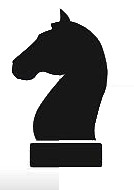
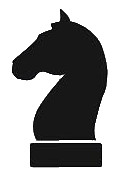
things

Changed region(s): [[0.0, 0.9737, 0.4478, 1.0], [0.209, 0.8421, 0.2388, 0.8684]]

diff --git a/src/profile/components/RecentGames/RecentGames.js b/src/profile/components/RecentGames/RecentGames.js
@@ -19,54 +19,54 @@ class RecentGames extends Component {
   }
 
   render () {
-  console.log('myGames', this.state.myGames)
-  const games = 0;
-  if (this.state.myGames[0]){
-      games = this.state.myGames.map((element, index) => {
-      let white = element.user_light
-      let black = element.user_dark
-      let winner = element.winner
-      let loser = element.loser
-      let timeCtrl = element.time_ctrl
-      let numberOfMoves = element.moves
-      let date = element.game_date
-      return(
-        <div key={index} className="gameRowInfo">
-        <div className="col 1">
-        <p>Date: {date}</p>
-        <p>Moves: {numberOfMoves}</p>
-        <p>Time Control: {timeCtrl}</p>
-        <p>White: {white}</p>
-        <p>Black: {black}</p>
-        </div>
+  // console.log('myGames', this.state.myGames)
+  // let games = 0;
+  // if (this.state.myGames[0]){
+  //     games = this.state.myGames.map((element, index) => {
+  //     // let white = element.user_light
+  //     // let black = element.user_dark
+  //     // let winner = element.winner
+  //     // let loser = element.loser
+  //     // let timeCtrl = element.time_ctrl
+  //     // let numberOfMoves = element.moves
+  //     // let date = element.game_date
+  //     return(
+  //       <div key={index} className="gameRowInfo">
+  //       <div className="col 1">
+  //       <p>Date: {element.date}</p>
+  //       <p>Moves: {element.numberOfMoves}</p>
+  //       <p>Time Control: {element.timeCtrl}</p>
+  //       <p>White: {element.white}</p>
+  //       <p>Black: {element.black}</p>
+  //       </div>
   
-        <div className="col 2">
-        <p>Winner</p>
-        <p>{winner}</p>
-        </div>
+  //       <div className="col 2">
+  //       <p>Winner</p>
+  //       <p>{element.winner}</p>
+  //       </div>
   
-        <div className="col 3">
-        <p>Loser</p>
-        <p>{loser}</p>
-        </div>
+  //       <div className="col 3">
+  //       <p>Loser</p>
+  //       <p>{element.loser}</p>
+  //       </div>
         
   
-        <div className="col 4">
-        <span>View Game</span>
-        </div>
-        </div>
-      )
-    })
-  } else{
-    return null
-  }
+  //       <div className="col 4">
+  //       <span>View Game</span>
+  //       </div>
+  //       </div>
+  //     )
+  //   })
+  // } else{
+  //   return null
+  // }
   
     return (
       <div>
         <h2>Recent Games</h2>
-        <section class="past_game_list">
+        {/* <section class="past_game_list">
         {games}
-        </section>
+        </section> */}
       </div>
     )
   }

diff --git a/server/controllers.js b/server/controllers.js
@@ -78,10 +78,18 @@ module.exports = {
     },
     getMyGames: async (req, res) => {
         const db = req.app.get('db')
+        try{
         let {user} = req.session
-
-        let myGames = await db.my_games(user)
-        res.status(200).send(myGames)
+        console.log(user)
+        // let count = await move_count()
+            let myGames = await db.my_games(user)
+            let count = []
+            for(let i = 0; i < myGames.length; i++){
+                let currentCount = db.move_count(i)
+                count.push(currentCount)
+            }
+            res.status(200).send(myGames)
+        } catch (e) {console.log(e)}
     },
     logout: async (req, res) => {
         const {user} = req.session

diff --git a/src/routing/routes.js b/src/routing/routes.js
@@ -3,7 +3,7 @@ import {Switch, Route} from 'react-router-dom'
 import Gameboard from '../gameboard/gameboard'
 import Login from '../landingpage/landingpage'
 import Profile from '../profile/profile'
-// import About from '../about/about'
+import About from '../about/about'
 
 export default function Nav(){
     return(
@@ -12,7 +12,7 @@ export default function Nav(){
                 <Route exact path='/' component={Login}/> 
                 <Route path='/profile' component={Profile}/>
                 <Route path='/gameboard' component={Gameboard}/>
-                {/* // <Route path='/about' component={About}/> */}
+                <Route path='/about' component={About}/>
             </Switch>
         </div>
     )

diff --git a/public/index.html b/public/index.html
@@ -2,7 +2,7 @@
 <html lang="en">
   <head>
     <meta charset="utf-8">
-    <link rel="shortcut icon" href='../src/images/knight.jpg'>
+    <link rel="shortcut icon" href='../src/images/knight-logo.jpg'>
     <meta name="viewport" content="width=device-width, initial-scale=1, shrink-to-fit=no">
     <meta name="theme-color" content="#000000">
     <!--
